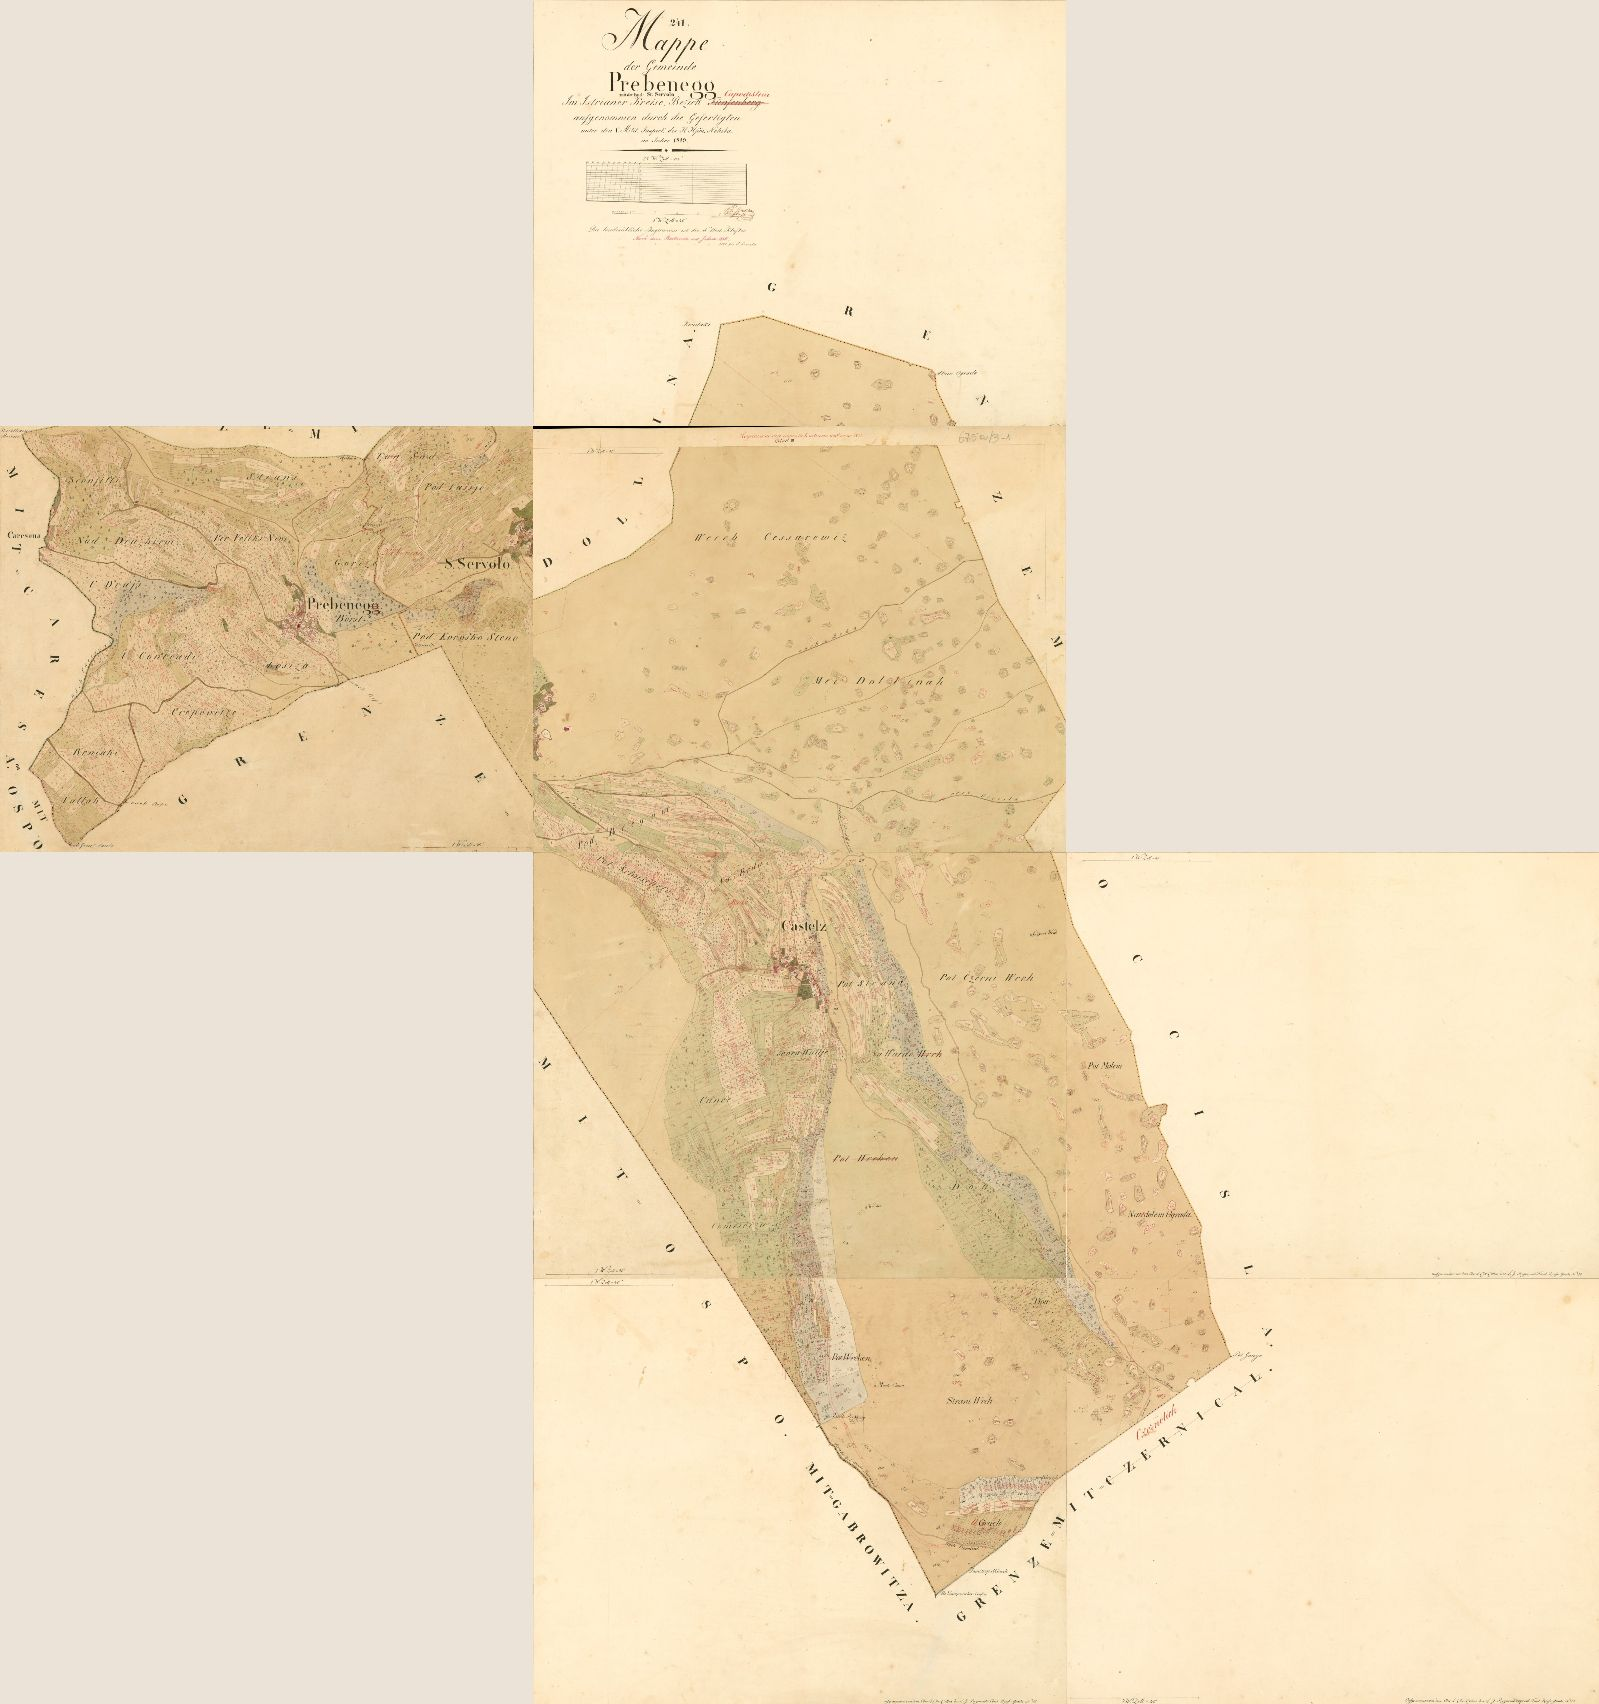
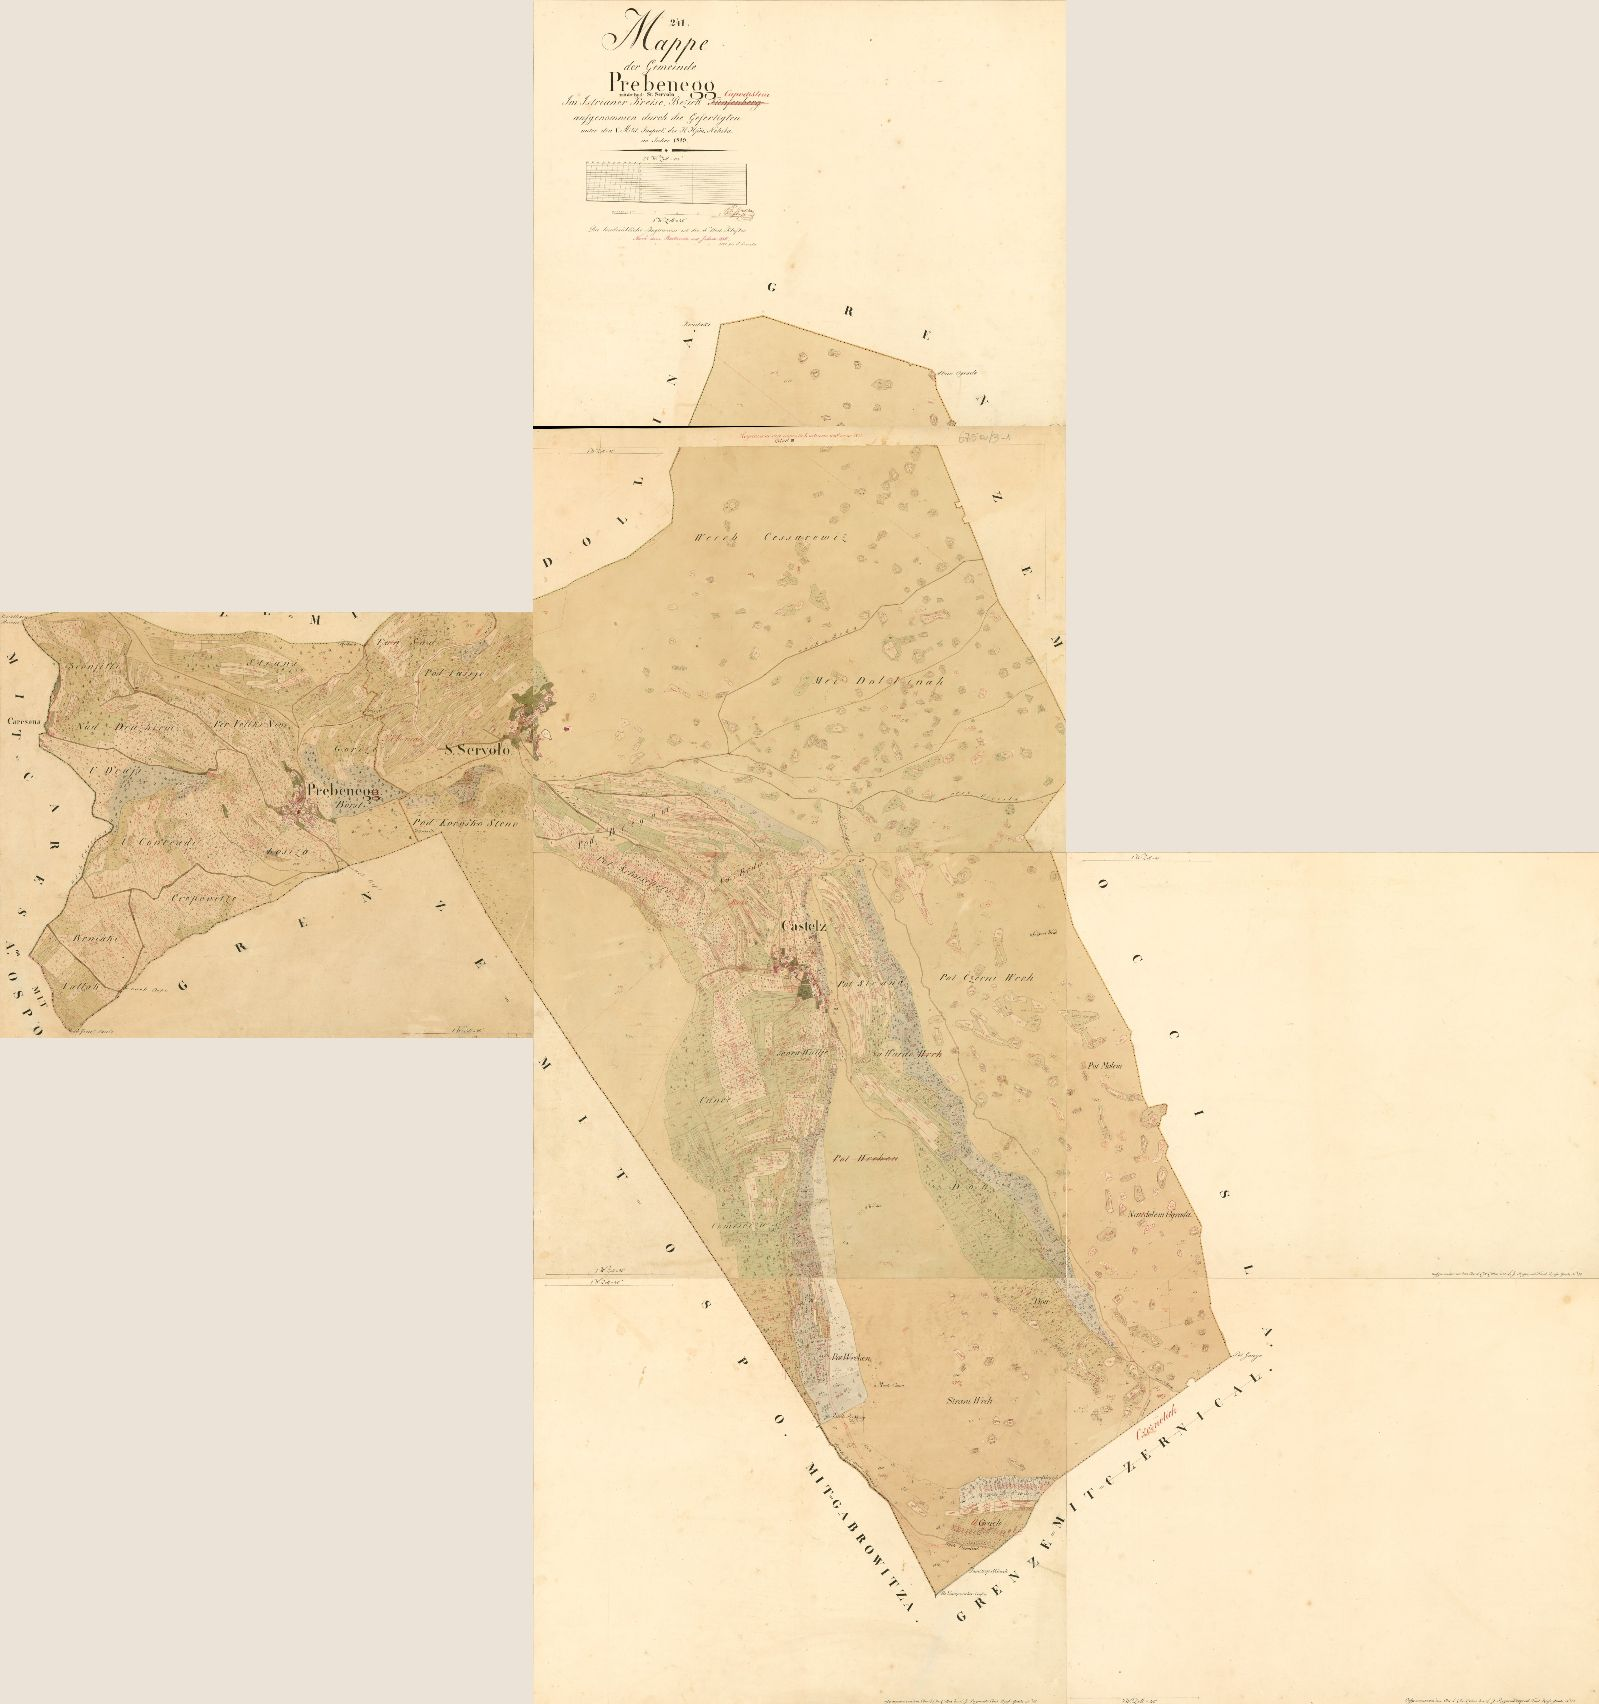
Sestavljene karte: popravljen položaj lista III (Ricmanje) in lista I (Prebeneg)
Claude-Session: https://claude.ai/code/session_01MmzyCvfTCzsWqzbiFwXz2t

Changed region(s): [[0.0, 0.2488, 0.3371, 0.6221]]

diff --git a/sveti/mackolje/karte.html b/sveti/mackolje/karte.html
@@ -119,6 +119,6 @@
 </nav>
 <script src="../../assets/config.js?v=6f36c4df"></script>
 <script src="../../assets/site.js?v=6f36c4df"></script>
-<script>window.KMOS={"caresana":{"cols":2,"rows":2,"series":"655_a","sheets":[{"n":1,"svc":"dff03f01-c7bd-4700-9db0-2577b20059b4","W":5791,"H":4726,"x":0.966287,"y":-0.070946,"w":1.121322,"deg":0.182,"clips":[[165,369,5178,4162],[271,199,1176,326],[5320,2968,471,1611]],"item":"6408b30b-8755-460e-bfc2-aa4fb70003e6"},{"n":2,"svc":"e8c5826a-d5f7-4141-b992-371c8338261c","W":5787,"H":4503,"x":0.972245,"y":0.76402,"w":1.114365,"deg":0.0292,"clips":[[145,184,5197,4159],[5317,0,344,1447]],"item":"075f006e-2cb4-4efd-97dc-c5de979e7274"},{"n":3,"svc":"5fafcd9f-b871-4bdf-921b-a87f193fb4b4","W":5528,"H":4648,"x":-0.03023,"y":-0.064328,"w":1.066901,"deg":0.0339,"clips":[[151,338,5195,4135],[4612,0,726,346]],"item":"693b2592-f989-4bbe-8a5b-7f85d9485f0b"}]},"prebenigo":{"cols":3,"rows":4,"series":"675_a","sheets":[{"n":1,"svc":"762f8abc-612c-4ee7-a902-ca2cbbf7f4fb","W":5564,"H":4542,"x":-0.037749,"y":0.754858,"w":1.080175,"deg":-0.1137,"clips":[[188,229,5162,4126],[0,209,202,4312]],"item":"abea735b-caea-4aa4-a923-7097b2f5aedb"},{"n":2,"svc":"6134bcdd-264b-4d6a-a826-9867df4cf364","W":5574,"H":4532,"x":0.961824,"y":-0.039644,"w":1.079488,"deg":-0.068,"clips":[[191,202,5175,4132]],"item":"e15d6ed7-d230-4d57-923f-4445f765b717"},{"n":3,"svc":"9cf5088a-ccb9-40fd-a23f-13d9fb03814d","W":5830,"H":4540,"x":0.963039,"y":0.798612,"w":1.083794,"deg":-0.5396,"clips":[[186,-26,5407,4369]],"item":"0fdc3b1b-82d0-4477-b390-1383b8aa30d6"},{"n":4,"svc":"f2fddf98-ca39-4322-aa58-a887e19aa780","W":5569,"H":4539,"x":0.961005,"y":1.560941,"w":1.076456,"deg":-0.0499,"clips":[[199,205,5182,4138]],"item":"de474361-1156-4500-9a29-25806a196fee"},{"n":5,"svc":"c69c964a-15dd-4405-969d-f9513ee34e22","W":5573,"H":4534,"x":1.959353,"y":1.559319,"w":1.079185,"deg":0.0496,"clips":[[201,216,5179,4129]],"item":"0a7034a3-0069-44e2-be4e-dc2ddc507c03"},{"n":6,"svc":"3647ed72-425d-4941-8996-fc9c4c66d149","W":5549,"H":4510,"x":1.961594,"y":2.360618,"w":1.078208,"deg":0.0094,"clips":[[191,204,5157,4118]],"item":"8b8c57d4-b439-4d9e-95ae-8ada750c2528"},{"n":7,"svc":"3a444a29-7fef-411a-b3ef-dd528b19b734","W":5529,"H":4490,"x":0.966104,"y":2.363021,"w":1.074079,"deg":0.1869,"clips":[[166,190,5165,4128]],"item":"bafd7675-af61-4348-a273-b95fd18a78de"}]}};window.KIIIF="https://astrieste.jarvis.memooria.org/images/iiif/db/";</script><script src="https://cdnjs.cloudflare.com/ajax/libs/openseadragon/4.1.0/openseadragon.min.js"></script><script src="../../assets/karte.js?v=6f36c4df"></script>
+<script>window.KMOS={"caresana":{"cols":2,"rows":2,"series":"655_a","sheets":[{"n":1,"svc":"dff03f01-c7bd-4700-9db0-2577b20059b4","W":5791,"H":4726,"x":0.966287,"y":-0.070946,"w":1.121322,"deg":0.182,"clips":[[165,369,5178,4162],[271,199,1176,326],[5320,2968,471,1611]],"item":"6408b30b-8755-460e-bfc2-aa4fb70003e6"},{"n":2,"svc":"e8c5826a-d5f7-4141-b992-371c8338261c","W":5787,"H":4503,"x":0.972245,"y":0.76402,"w":1.114365,"deg":0.0292,"clips":[[145,184,5197,4159],[5317,0,344,1447]],"item":"075f006e-2cb4-4efd-97dc-c5de979e7274"},{"n":3,"svc":"5fafcd9f-b871-4bdf-921b-a87f193fb4b4","W":5528,"H":4648,"x":-0.03023,"y":-0.064328,"w":1.066901,"deg":0.0339,"clips":[[151,338,5195,4135],[4612,0,726,346]],"item":"693b2592-f989-4bbe-8a5b-7f85d9485f0b"}]},"prebenigo":{"cols":3,"rows":4,"series":"675_a","sheets":[{"n":1,"svc":"762f8abc-612c-4ee7-a902-ca2cbbf7f4fb","W":5564,"H":4542,"x":-0.037749,"y":1.104858,"w":1.080175,"deg":-0.1137,"clips":[[188,229,5162,4126],[0,209,202,4312]],"item":"abea735b-caea-4aa4-a923-7097b2f5aedb"},{"n":2,"svc":"6134bcdd-264b-4d6a-a826-9867df4cf364","W":5574,"H":4532,"x":0.961824,"y":-0.039644,"w":1.079488,"deg":-0.068,"clips":[[191,202,5175,4132]],"item":"e15d6ed7-d230-4d57-923f-4445f765b717"},{"n":3,"svc":"9cf5088a-ccb9-40fd-a23f-13d9fb03814d","W":5830,"H":4540,"x":0.963039,"y":0.798612,"w":1.083794,"deg":-0.5396,"clips":[[186,-26,5407,4369]],"item":"0fdc3b1b-82d0-4477-b390-1383b8aa30d6"},{"n":4,"svc":"f2fddf98-ca39-4322-aa58-a887e19aa780","W":5569,"H":4539,"x":0.961005,"y":1.560941,"w":1.076456,"deg":-0.0499,"clips":[[199,205,5182,4138]],"item":"de474361-1156-4500-9a29-25806a196fee"},{"n":5,"svc":"c69c964a-15dd-4405-969d-f9513ee34e22","W":5573,"H":4534,"x":1.959353,"y":1.559319,"w":1.079185,"deg":0.0496,"clips":[[201,216,5179,4129]],"item":"0a7034a3-0069-44e2-be4e-dc2ddc507c03"},{"n":6,"svc":"3647ed72-425d-4941-8996-fc9c4c66d149","W":5549,"H":4510,"x":1.961594,"y":2.360618,"w":1.078208,"deg":0.0094,"clips":[[191,204,5157,4118]],"item":"8b8c57d4-b439-4d9e-95ae-8ada750c2528"},{"n":7,"svc":"3a444a29-7fef-411a-b3ef-dd528b19b734","W":5529,"H":4490,"x":0.966104,"y":2.363021,"w":1.074079,"deg":0.1869,"clips":[[166,190,5165,4128]],"item":"bafd7675-af61-4348-a273-b95fd18a78de"}]}};window.KIIIF="https://astrieste.jarvis.memooria.org/images/iiif/db/";</script><script src="https://cdnjs.cloudflare.com/ajax/libs/openseadragon/4.1.0/openseadragon.min.js"></script><script src="../../assets/karte.js?v=6f36c4df"></script>
 </body>
 </html>

diff --git a/sveti/domjo/karte.html b/sveti/domjo/karte.html
@@ -121,6 +121,6 @@
 </nav>
 <script src="../../assets/config.js?v=6f36c4df"></script>
 <script src="../../assets/site.js?v=6f36c4df"></script>
-<script>window.KMOS={"giuseppe":{"cols":2,"rows":2,"series":"682_a","sheets":[{"n":1,"svc":"cda9060e-c91e-4d4e-88b7-ee84469658f9","W":5687,"H":4490,"x":0.964705,"y":-0.034103,"w":1.103623,"deg":0.1167,"clips":[[175,183,5169,4124]],"item":"c3e91760-e9e0-4502-8e88-ec8be169c104"},{"n":2,"svc":"f80533cf-1928-40e0-89d9-3b29dce5b8b6","W":5532,"H":4492,"x":0.965127,"y":0.763038,"w":1.073183,"deg":-0.0424,"clips":[[177,186,5160,4129]],"item":"1c7f1f72-91e3-4445-8f1a-3dccf06deac6"},{"n":3,"svc":"709c7b9c-a4ad-45ee-9327-4e86f92c1562","W":5496,"H":4493,"x":-0.030385,"y":0.761666,"w":1.06453,"deg":-0.0157,"clips":[[154,193,5166,4137]],"item":"87f0650a-5037-4274-8b35-58a8f7345520"}]},"bagnoli":{"cols":3,"rows":2,"series":"651_a","sheets":[{"n":1,"svc":"c7669d0e-1229-4f36-a7e3-2e3f8ca32f42","W":5496,"H":4466,"x":-0.033567,"y":-0.030102,"w":1.065012,"deg":-0.0623,"clips":[[164,159,5180,4118]],"item":"9c4468f1-2772-4cc9-96fb-20bbd2a952f6"},{"n":2,"svc":"739df25b-554a-4f95-b198-847af30325a2","W":5577,"H":4512,"x":0.964208,"y":-0.037583,"w":1.046808,"deg":-0.0105,"clips":[[197,182,5325,4293]],"item":"88c00d5d-ea56-414d-8821-2d1c617f14a1"},{"n":3,"svc":"b3d313e3-6e40-429e-83f0-4c2415ed2ea0","W":5499,"H":4666,"x":1.967927,"y":-0.072134,"w":1.062362,"deg":0.1256,"clips":[[170,362,5166,4177],[687,103,2406,395]],"item":"ccdfea12-622b-4caf-aa64-b5ba19535327"},{"n":4,"svc":"3f498a0e-3c7c-43d2-b4b5-2552d6df4b54","W":5486,"H":4485,"x":-0.03112,"y":0.761789,"w":1.064772,"deg":-0.0351,"clips":[[154,193,5160,4128]],"item":"4e3fa0d8-8f2c-4445-9b9b-13e2c482870f"},{"n":5,"svc":"b4b250d6-6bb0-4bd4-a487-0df888b34f52","W":5480,"H":4450,"x":0.969803,"y":0.763952,"w":1.062651,"deg":0.0424,"clips":[[151,187,5164,4126]],"item":"782cc079-b00f-4bd4-95c1-e62dc256250d"}]}};window.KIIIF="https://astrieste.jarvis.memooria.org/images/iiif/db/";</script><script src="https://cdnjs.cloudflare.com/ajax/libs/openseadragon/4.1.0/openseadragon.min.js"></script><script src="../../assets/karte.js?v=6f36c4df"></script>
+<script>window.KMOS={"giuseppe":{"cols":2,"rows":3,"series":"682_a","sheets":[{"n":1,"svc":"cda9060e-c91e-4d4e-88b7-ee84469658f9","W":5687,"H":4490,"x":0.964705,"y":-0.034103,"w":1.103623,"deg":0.1167,"clips":[[175,183,5169,4124]],"item":"c3e91760-e9e0-4502-8e88-ec8be169c104"},{"n":2,"svc":"f80533cf-1928-40e0-89d9-3b29dce5b8b6","W":5532,"H":4492,"x":0.965127,"y":0.763038,"w":1.073183,"deg":-0.0424,"clips":[[177,186,5160,4129]],"item":"1c7f1f72-91e3-4445-8f1a-3dccf06deac6"},{"n":3,"svc":"709c7b9c-a4ad-45ee-9327-4e86f92c1562","W":5496,"H":4493,"x":-0.030385,"y":1.059666,"w":1.06453,"deg":-0.0157,"clips":[[154,193,5166,4137]],"item":"87f0650a-5037-4274-8b35-58a8f7345520"}]},"bagnoli":{"cols":3,"rows":2,"series":"651_a","sheets":[{"n":1,"svc":"c7669d0e-1229-4f36-a7e3-2e3f8ca32f42","W":5496,"H":4466,"x":-0.033567,"y":-0.030102,"w":1.065012,"deg":-0.0623,"clips":[[164,159,5180,4118]],"item":"9c4468f1-2772-4cc9-96fb-20bbd2a952f6"},{"n":2,"svc":"739df25b-554a-4f95-b198-847af30325a2","W":5577,"H":4512,"x":0.964208,"y":-0.037583,"w":1.046808,"deg":-0.0105,"clips":[[197,182,5325,4293]],"item":"88c00d5d-ea56-414d-8821-2d1c617f14a1"},{"n":3,"svc":"b3d313e3-6e40-429e-83f0-4c2415ed2ea0","W":5499,"H":4666,"x":1.967927,"y":-0.072134,"w":1.062362,"deg":0.1256,"clips":[[170,362,5166,4177],[687,103,2406,395]],"item":"ccdfea12-622b-4caf-aa64-b5ba19535327"},{"n":4,"svc":"3f498a0e-3c7c-43d2-b4b5-2552d6df4b54","W":5486,"H":4485,"x":-0.03112,"y":0.761789,"w":1.064772,"deg":-0.0351,"clips":[[154,193,5160,4128]],"item":"4e3fa0d8-8f2c-4445-9b9b-13e2c482870f"},{"n":5,"svc":"b4b250d6-6bb0-4bd4-a487-0df888b34f52","W":5480,"H":4450,"x":0.969803,"y":0.763952,"w":1.062651,"deg":0.0424,"clips":[[151,187,5164,4126]],"item":"782cc079-b00f-4bd4-95c1-e62dc256250d"}]}};window.KIIIF="https://astrieste.jarvis.memooria.org/images/iiif/db/";</script><script src="https://cdnjs.cloudflare.com/ajax/libs/openseadragon/4.1.0/openseadragon.min.js"></script><script src="../../assets/karte.js?v=6f36c4df"></script>
 </body>
 </html>

diff --git a/sveti/ricmanje/karte.html b/sveti/ricmanje/karte.html
@@ -103,6 +103,6 @@
 </nav>
 <script src="../../assets/config.js?v=6f36c4df"></script>
 <script src="../../assets/site.js?v=6f36c4df"></script>
-<script>window.KMOS={"giuseppe":{"cols":2,"rows":2,"series":"682_a","sheets":[{"n":1,"svc":"cda9060e-c91e-4d4e-88b7-ee84469658f9","W":5687,"H":4490,"x":0.964705,"y":-0.034103,"w":1.103623,"deg":0.1167,"clips":[[175,183,5169,4124]],"item":"c3e91760-e9e0-4502-8e88-ec8be169c104"},{"n":2,"svc":"f80533cf-1928-40e0-89d9-3b29dce5b8b6","W":5532,"H":4492,"x":0.965127,"y":0.763038,"w":1.073183,"deg":-0.0424,"clips":[[177,186,5160,4129]],"item":"1c7f1f72-91e3-4445-8f1a-3dccf06deac6"},{"n":3,"svc":"709c7b9c-a4ad-45ee-9327-4e86f92c1562","W":5496,"H":4493,"x":-0.030385,"y":0.761666,"w":1.06453,"deg":-0.0157,"clips":[[154,193,5166,4137]],"item":"87f0650a-5037-4274-8b35-58a8f7345520"}]}};window.KIIIF="https://astrieste.jarvis.memooria.org/images/iiif/db/";</script><script src="https://cdnjs.cloudflare.com/ajax/libs/openseadragon/4.1.0/openseadragon.min.js"></script><script src="../../assets/karte.js?v=6f36c4df"></script>
+<script>window.KMOS={"giuseppe":{"cols":2,"rows":3,"series":"682_a","sheets":[{"n":1,"svc":"cda9060e-c91e-4d4e-88b7-ee84469658f9","W":5687,"H":4490,"x":0.964705,"y":-0.034103,"w":1.103623,"deg":0.1167,"clips":[[175,183,5169,4124]],"item":"c3e91760-e9e0-4502-8e88-ec8be169c104"},{"n":2,"svc":"f80533cf-1928-40e0-89d9-3b29dce5b8b6","W":5532,"H":4492,"x":0.965127,"y":0.763038,"w":1.073183,"deg":-0.0424,"clips":[[177,186,5160,4129]],"item":"1c7f1f72-91e3-4445-8f1a-3dccf06deac6"},{"n":3,"svc":"709c7b9c-a4ad-45ee-9327-4e86f92c1562","W":5496,"H":4493,"x":-0.030385,"y":1.059666,"w":1.06453,"deg":-0.0157,"clips":[[154,193,5166,4137]],"item":"87f0650a-5037-4274-8b35-58a8f7345520"}]}};window.KIIIF="https://astrieste.jarvis.memooria.org/images/iiif/db/";</script><script src="https://cdnjs.cloudflare.com/ajax/libs/openseadragon/4.1.0/openseadragon.min.js"></script><script src="../../assets/karte.js?v=6f36c4df"></script>
 </body>
 </html>
